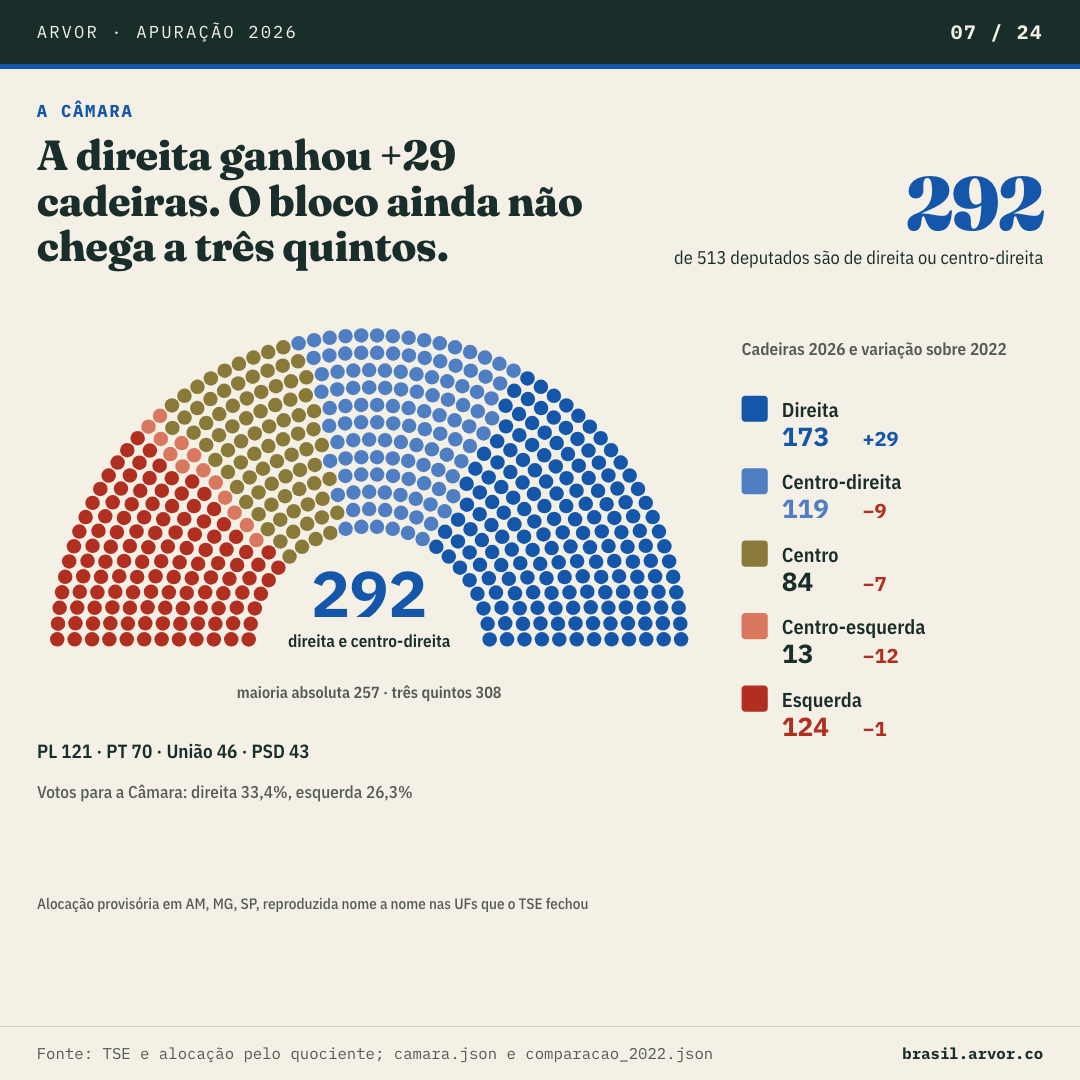
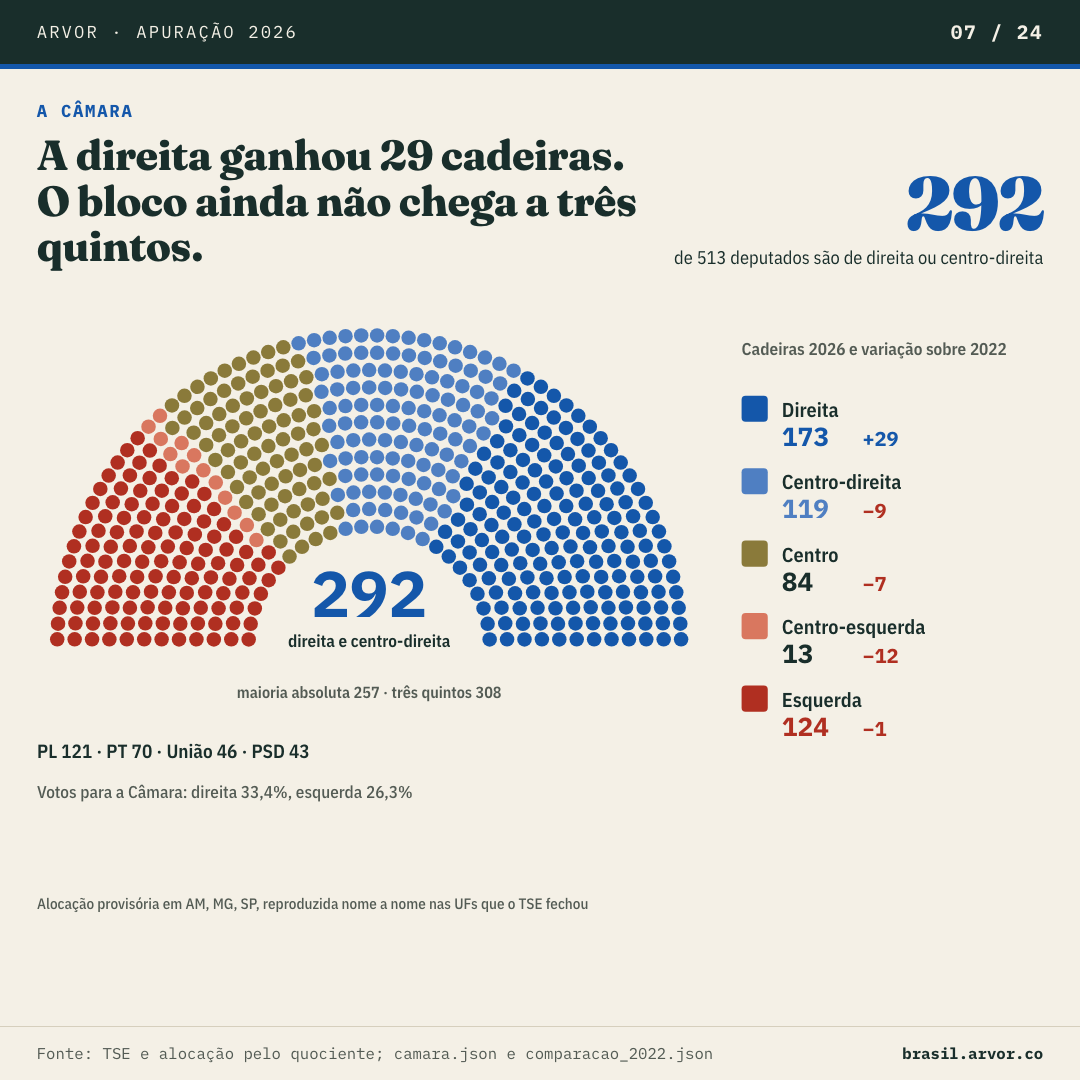
apuracao thread: write the Chamber gain as a count, not a signed delta

Changed region(s): [[0.0306, 0.1222, 0.6111, 0.275]]

diff --git a/docs/apuracao_1o_turno_2026_thread.html b/docs/apuracao_1o_turno_2026_thread.html
@@ -331,17 +331,17 @@ Há mais eleitor parado no exterior do que margem a disputar: 574.768 inscritos 
 </section>
 <section class="post" id="p07">
   <div class="post-label">Post 07/24 · <b>A Câmara</b></div>
-  <article class="card" style="--accent:#1457aa" aria-label="Card 7 de 24: A direita ganhou +29 cadeiras. O bloco ainda não chega a três quintos.">
+  <article class="card" style="--accent:#1457aa" aria-label="Card 7 de 24: A direita ganhou 29 cadeiras. O bloco ainda não chega a três quintos.">
     <header class="c-head"><span class="c-brand">Arvor · Apuração 2026</span><span class="c-pno">07 / 24</span></header>
     <div class="c-top">
       <div class="c-tag">A Câmara</div>
-      <h2>A direita ganhou +29 cadeiras. O bloco ainda não chega a três quintos.</h2>
+      <h2>A direita ganhou 29 cadeiras. O bloco ainda não chega a três quintos.</h2>
       <div class="c-metric"><b style="font-size:7.0cqw">292</b><span>de 513 deputados são de direita ou centro-direita</span></div>
     </div>
     <div class="c-viz" tabindex="0" role="region" aria-label="Gráfico do card 7"><svg viewBox="0 0 1000 600" role="img" aria-label="Câmara dos Deputados eleita, por campo" xmlns="http://www.w3.org/2000/svg"><title>Câmara dos Deputados eleita, por campo</title><circle cx="20.1" cy="322.1" r="7.2" fill="#b02f21"/><circle cx="37.4" cy="322.1" r="7.2" fill="#b02f21"/><circle cx="54.7" cy="322.1" r="7.2" fill="#b02f21"/><circle cx="71.9" cy="322.0" r="7.2" fill="#b02f21"/><circle cx="89.2" cy="322.1" r="7.2" fill="#b02f21"/><circle cx="106.5" cy="322.0" r="7.2" fill="#b02f21"/><circle cx="123.8" cy="322.1" r="7.2" fill="#b02f21"/><circle cx="141.1" cy="322.2" r="7.2" fill="#b02f21"/><circle cx="158.4" cy="322.1" r="7.2" fill="#b02f21"/><circle cx="175.7" cy="322.2" r="7.2" fill="#b02f21"/><circle cx="193.0" cy="322.0" r="7.2" fill="#b02f21"/><circle cx="210.3" cy="322.2" r="7.2" fill="#b02f21"/><circle cx="20.9" cy="306.5" r="7.2" fill="#b02f21"/><circle cx="38.2" cy="306.2" r="7.2" fill="#b02f21"/><circle cx="55.6" cy="306.4" r="7.2" fill="#b02f21"/><circle cx="72.9" cy="306.2" r="7.2" fill="#b02f21"/><circle cx="90.3" cy="306.4" r="7.2" fill="#b02f21"/><circle cx="107.6" cy="306.1" r="7.2" fill="#b02f21"/><circle cx="125.0" cy="306.3" r="7.2" fill="#b02f21"/><circle cx="142.4" cy="306.6" r="7.2" fill="#b02f21"/><circle cx="22.5" cy="290.8" r="7.2" fill="#b02f21"/><circle cx="40.0" cy="290.5" r="7.2" fill="#b02f21"/><circle cx="159.8" cy="306.3" r="7.2" fill="#b02f21"/><circle cx="57.3" cy="290.8" r="7.2" fill="#b02f21"/><circle cx="177.2" cy="306.6" r="7.2" fill="#b02f21"/><circle cx="74.9" cy="290.4" r="7.2" fill="#b02f21"/><circle cx="92.3" cy="290.8" r="7.2" fill="#b02f21"/><circle cx="194.8" cy="306.2" r="7.2" fill="#b02f21"/><circle cx="24.9" cy="275.3" r="7.2" fill="#b02f21"/><circle cx="109.9" cy="290.3" r="7.2" fill="#b02f21"/><circle cx="42.5" cy="274.8" r="7.2" fill="#b02f21"/><circle cx="127.4" cy="290.7" r="7.2" fill="#b02f21"/><circle cx="212.3" cy="306.6" r="7.2" fill="#b02f21"/><circle cx="60.0" cy="275.3" r="7.2" fill="#b02f21"/><circle cx="144.9" cy="291.2" r="7.2" fill="#b02f21"/><circle cx="77.8" cy="274.8" r="7.2" fill="#b02f21"/><circle cx="28.0" cy="259.9" r="7.2" fill="#b02f21"/><circle cx="95.4" cy="275.3" r="7.2" fill="#b02f21"/><circle cx="162.7" cy="290.7" r="7.2" fill="#b02f21"/><circle cx="45.9" cy="259.4" r="7.2" fill="#b02f21"/><circle cx="113.3" cy="274.7" r="7.2" fill="#b02f21"/><circle cx="180.4" cy="291.3" r="7.2" fill="#b02f21"/><circle cx="63.6" cy="260.0" r="7.2" fill="#b02f21"/><circle cx="131.0" cy="275.3" r="7.2" fill="#b02f21"/><circle cx="81.7" cy="259.3" r="7.2" fill="#b02f21"/><circle cx="32.0" cy="244.7" r="7.2" fill="#b02f21"/><circle cx="148.8" cy="276.0" r="7.2" fill="#b02f21"/><circle cx="198.5" cy="290.6" r="7.2" fill="#b02f21"/><circle cx="99.5" cy="260.1" r="7.2" fill="#b02f21"/><circle cx="50.2" cy="244.1" r="7.2" fill="#b02f21"/><circle cx="68.0" cy="244.9" r="7.2" fill="#b02f21"/><circle cx="117.8" cy="259.4" r="7.2" fill="#b02f21"/><circle cx="167.1" cy="275.4" r="7.2" fill="#b02f21"/><circle cx="216.4" cy="291.4" r="7.2" fill="#b02f21"/><circle cx="36.7" cy="229.7" r="7.2" fill="#b02f21"/><circle cx="86.5" cy="244.2" r="7.2" fill="#b02f21"/><circle cx="135.8" cy="260.2" r="7.2" fill="#b02f21"/><circle cx="55.2" cy="229.1" r="7.2" fill="#b02f21"/><circle cx="185.1" cy="276.3" r="7.2" fill="#b02f21"/><circle cx="104.5" cy="245.1" r="7.2" fill="#b02f21"/><circle cx="73.3" cy="230.1" r="7.2" fill="#b02f21"/><circle cx="153.8" cy="261.3" r="7.2" fill="#b02f21"/><circle cx="42.1" cy="215.0" r="7.2" fill="#b02f21"/><circle cx="123.4" cy="244.4" r="7.2" fill="#b02f21"/><circle cx="92.2" cy="229.4" r="7.2" fill="#b02f21"/><circle cx="61.1" cy="214.3" r="7.2" fill="#b02f21"/><circle cx="204.0" cy="275.6" r="7.2" fill="#b02f21"/><circle cx="172.8" cy="260.6" r="7.2" fill="#b02f21"/><circle cx="141.7" cy="245.6" r="7.2" fill="#b02f21"/><circle cx="110.6" cy="230.6" r="7.2" fill="#b02f21"/><circle cx="79.4" cy="215.6" r="7.2" fill="#b02f21"/><circle cx="48.3" cy="200.6" r="7.2" fill="#b02f21"/><circle cx="160.1" cy="247.0" r="7.2" fill="#b02f21"/><circle cx="191.2" cy="261.9" r="7.2" fill="#b02f21"/><circle cx="222.4" cy="276.9" r="7.2" fill="#b02f21"/><circle cx="67.8" cy="199.9" r="7.2" fill="#b02f21"/><circle cx="98.9" cy="214.9" r="7.2" fill="#b02f21"/><circle cx="130.0" cy="229.9" r="7.2" fill="#b02f21"/><circle cx="55.2" cy="186.5" r="7.2" fill="#b02f21"/><circle cx="86.4" cy="201.5" r="7.2" fill="#b02f21"/><circle cx="117.5" cy="216.4" r="7.2" fill="#b02f21"/><circle cx="148.7" cy="231.4" r="7.2" fill="#b02f21"/><circle cx="179.9" cy="246.4" r="7.2" fill="#b02f21"/><circle cx="75.2" cy="185.9" r="7.2" fill="#b02f21"/><circle cx="211.1" cy="261.4" r="7.2" fill="#b02f21"/><circle cx="106.4" cy="200.9" r="7.2" fill="#b02f21"/><circle cx="62.9" cy="172.7" r="7.2" fill="#b02f21"/><circle cx="137.7" cy="215.9" r="7.2" fill="#b02f21"/><circle cx="167.6" cy="233.2" r="7.2" fill="#b02f21"/><circle cx="94.1" cy="187.8" r="7.2" fill="#b02f21"/><circle cx="125.4" cy="202.8" r="7.2" fill="#b02f21"/><circle cx="198.8" cy="248.3" r="7.2" fill="#b02f21"/><circle cx="83.4" cy="172.3" r="7.2" fill="#b02f21"/><circle cx="156.8" cy="217.8" r="7.2" fill="#b02f21"/><circle cx="71.2" cy="159.4" r="7.2" fill="#b02f21"/><circle cx="114.8" cy="187.4" r="7.2" fill="#b02f21"/><circle cx="230.2" cy="263.3" r="7.2" fill="#b02f21"/><circle cx="102.6" cy="174.5" r="7.2" fill="#b02f21"/><circle cx="188.3" cy="232.9" r="7.2" fill="#b02f21"/><circle cx="146.3" cy="202.5" r="7.2" fill="#b02f21"/><circle cx="176.1" cy="220.1" r="7.2" fill="#b02f21"/><circle cx="134.2" cy="189.7" r="7.2" fill="#b02f21"/><circle cx="92.3" cy="159.2" r="7.2" fill="#b02f21"/><circle cx="80.1" cy="146.5" r="7.2" fill="#b02f21"/><circle cx="219.9" cy="248.0" r="7.2" fill="#b02f21"/><circle cx="124.0" cy="174.4" r="7.2" fill="#b02f21"/><circle cx="165.9" cy="204.9" r="7.2" fill="#b02f21"/><circle cx="111.9" cy="161.8" r="7.2" fill="#b02f21"/><circle cx="207.8" cy="235.4" r="7.2" fill="#b02f21"/><circle cx="101.8" cy="146.6" r="7.2" fill="#b02f21"/><circle cx="155.9" cy="189.7" r="7.2" fill="#b02f21"/><circle cx="89.7" cy="134.1" r="7.2" fill="#b02f21"/><circle cx="143.8" cy="177.2" r="7.2" fill="#b02f21"/><circle cx="197.8" cy="220.2" r="7.2" fill="#b02f21"/><circle cx="185.7" cy="207.8" r="7.2" fill="#b02f21"/><circle cx="133.9" cy="162.0" r="7.2" fill="#b02f21"/><circle cx="121.8" cy="149.6" r="7.2" fill="#b02f21"/><circle cx="239.8" cy="250.9" r="7.2" fill="#b02f21"/><circle cx="175.9" cy="192.7" r="7.2" fill="#b02f21"/><circle cx="112.1" cy="134.5" r="7.2" fill="#b02f21"/><circle cx="100.0" cy="122.2" r="7.2" fill="#b02f21"/><circle cx="166.3" cy="177.6" r="7.2" fill="#b02f21"/><circle cx="154.2" cy="165.3" r="7.2" fill="#b02f21"/><circle cx="230.2" cy="235.8" r="7.2" fill="#b02f21"/><circle cx="218.0" cy="223.5" r="7.2" fill="#d9775f"/><circle cx="144.6" cy="150.3" r="7.2" fill="#d9775f"/><circle cx="132.5" cy="138.0" r="7.2" fill="#d9775f"/><circle cx="208.5" cy="208.5" r="7.2" fill="#d9775f"/><circle cx="196.3" cy="196.3" r="7.2" fill="#d9775f"/><circle cx="123.0" cy="123.0" r="7.2" fill="#d9775f"/><circle cx="110.8" cy="110.8" r="7.2" fill="#d9775f"/><circle cx="186.9" cy="181.3" r="7.2" fill="#d9775f"/><circle cx="165.3" cy="154.2" r="7.2" fill="#d9775f"/><circle cx="177.6" cy="166.3" r="7.2" fill="#d9775f"/><circle cx="143.7" cy="127.1" r="7.2" fill="#d9775f"/><circle cx="156.1" cy="139.2" r="7.2" fill="#d9775f"/><circle cx="122.2" cy="100.0" r="7.2" fill="#d9775f"/><circle cx="134.5" cy="112.1" r="7.2" fill="#8a7a3a"/><circle cx="250.9" cy="239.8" r="7.2" fill="#8a7a3a"/><circle cx="229.3" cy="212.7" r="7.2" fill="#8a7a3a"/><circle cx="207.8" cy="185.7" r="7.2" fill="#8a7a3a"/><circle cx="241.8" cy="224.8" r="7.2" fill="#8a7a3a"/><circle cx="220.2" cy="197.8" r="7.2" fill="#8a7a3a"/><circle cx="198.7" cy="170.8" r="7.2" fill="#8a7a3a"/><circle cx="177.2" cy="143.8" r="7.2" fill="#8a7a3a"/><circle cx="155.6" cy="116.8" r="7.2" fill="#8a7a3a"/><circle cx="134.1" cy="89.7" r="7.2" fill="#8a7a3a"/><circle cx="189.7" cy="155.9" r="7.2" fill="#8a7a3a"/><circle cx="168.1" cy="128.9" r="7.2" fill="#8a7a3a"/><circle cx="146.6" cy="101.8" r="7.2" fill="#8a7a3a"/><circle cx="146.5" cy="80.1" r="7.2" fill="#8a7a3a"/><circle cx="168.1" cy="107.2" r="7.2" fill="#8a7a3a"/><circle cx="159.2" cy="92.3" r="7.2" fill="#8a7a3a"/><circle cx="189.7" cy="134.2" r="7.2" fill="#8a7a3a"/><circle cx="220.1" cy="176.1" r="7.2" fill="#8a7a3a"/><circle cx="180.8" cy="119.3" r="7.2" fill="#8a7a3a"/><circle cx="211.3" cy="161.2" r="7.2" fill="#8a7a3a"/><circle cx="241.7" cy="203.2" r="7.2" fill="#8a7a3a"/><circle cx="202.5" cy="146.3" r="7.2" fill="#8a7a3a"/><circle cx="232.9" cy="188.3" r="7.2" fill="#8a7a3a"/><circle cx="263.3" cy="230.2" r="7.2" fill="#8a7a3a"/><circle cx="159.4" cy="71.2" r="7.2" fill="#8a7a3a"/><circle cx="254.6" cy="215.3" r="7.2" fill="#8a7a3a"/><circle cx="181.1" cy="98.3" r="7.2" fill="#8a7a3a"/><circle cx="172.3" cy="83.4" r="7.2" fill="#8a7a3a"/><circle cx="202.8" cy="125.4" r="7.2" fill="#8a7a3a"/><circle cx="194.1" cy="110.5" r="7.2" fill="#8a7a3a"/><circle cx="233.2" cy="167.6" r="7.2" fill="#8a7a3a"/><circle cx="224.5" cy="152.6" r="7.2" fill="#8a7a3a"/><circle cx="215.9" cy="137.7" r="7.2" fill="#8a7a3a"/><circle cx="172.7" cy="62.9" r="7.2" fill="#8a7a3a"/><circle cx="185.9" cy="75.2" r="7.2" fill="#8a7a3a"/><circle cx="194.5" cy="90.1" r="7.2" fill="#8a7a3a"/><circle cx="246.4" cy="179.9" r="7.2" fill="#8a7a3a"/><circle cx="255.0" cy="194.9" r="7.2" fill="#8a7a3a"/><circle cx="207.9" cy="102.5" r="7.2" fill="#8a7a3a"/><circle cx="216.4" cy="117.5" r="7.2" fill="#8a7a3a"/><circle cx="186.5" cy="55.2" r="7.2" fill="#8a7a3a"/><circle cx="268.4" cy="207.3" r="7.2" fill="#8a7a3a"/><circle cx="229.9" cy="130.0" r="7.2" fill="#8a7a3a"/><circle cx="199.9" cy="67.8" r="7.2" fill="#8a7a3a"/><circle cx="238.4" cy="145.1" r="7.2" fill="#8a7a3a"/><circle cx="276.9" cy="222.4" r="7.2" fill="#8a7a3a"/><circle cx="208.5" cy="82.8" r="7.2" fill="#8a7a3a"/><circle cx="247.0" cy="160.1" r="7.2" fill="#8a7a3a"/><circle cx="222.1" cy="95.5" r="7.2" fill="#8a7a3a"/><circle cx="200.6" cy="48.3" r="7.2" fill="#8a7a3a"/><circle cx="230.6" cy="110.6" r="7.2" fill="#8a7a3a"/><circle cx="260.6" cy="172.8" r="7.2" fill="#8a7a3a"/><circle cx="214.3" cy="61.1" r="7.2" fill="#8a7a3a"/><circle cx="269.1" cy="188.0" r="7.2" fill="#8a7a3a"/><circle cx="222.8" cy="76.3" r="7.2" fill="#8a7a3a"/><circle cx="244.4" cy="123.4" r="7.2" fill="#8a7a3a"/><circle cx="252.9" cy="138.6" r="7.2" fill="#8a7a3a"/><circle cx="215.0" cy="42.1" r="7.2" fill="#8a7a3a"/><circle cx="261.3" cy="153.8" r="7.2" fill="#8a7a3a"/><circle cx="236.7" cy="89.3" r="7.2" fill="#8a7a3a"/><circle cx="245.1" cy="104.5" r="7.2" fill="#8a7a3a"/><circle cx="229.1" cy="55.2" r="7.2" fill="#8a7a3a"/><circle cx="283.0" cy="201.0" r="7.2" fill="#8a7a3a"/><circle cx="237.4" cy="70.6" r="7.2" fill="#8a7a3a"/><circle cx="229.7" cy="36.7" r="7.2" fill="#8a7a3a"/><circle cx="291.4" cy="216.4" r="7.2" fill="#8a7a3a"/><circle cx="275.4" cy="167.1" r="7.2" fill="#8a7a3a"/><circle cx="259.4" cy="117.8" r="7.2" fill="#8a7a3a"/><circle cx="251.7" cy="84.0" r="7.2" fill="#8a7a3a"/><circle cx="267.7" cy="133.3" r="7.2" fill="#8a7a3a"/><circle cx="283.7" cy="182.5" r="7.2" fill="#8a7a3a"/><circle cx="244.1" cy="50.2" r="7.2" fill="#8a7a3a"/><circle cx="260.1" cy="99.5" r="7.2" fill="#8a7a3a"/><circle cx="276.0" cy="148.8" r="7.2" fill="#8a7a3a"/><circle cx="252.4" cy="65.7" r="7.2" fill="#8a7a3a"/><circle cx="244.7" cy="32.0" r="7.2" fill="#8a7a3a"/><circle cx="274.7" cy="113.3" r="7.2" fill="#8a7a3a"/><circle cx="267.0" cy="79.6" r="7.2" fill="#8a7a3a"/><circle cx="259.4" cy="45.9" r="7.2" fill="#8a7a3a"/><circle cx="298.3" cy="196.4" r="7.2" fill="#8a7a3a"/><circle cx="290.7" cy="162.7" r="7.2" fill="#8a7a3a"/><circle cx="283.0" cy="129.1" r="7.2" fill="#8a7a3a"/><circle cx="275.3" cy="95.4" r="7.2" fill="#8a7a3a"/><circle cx="267.6" cy="61.7" r="7.2" fill="#8a7a3a"/><circle cx="259.9" cy="28.0" r="7.2" fill="#4f7fc2"/><circle cx="291.2" cy="144.9" r="7.2" fill="#4f7fc2"/><circle cx="298.9" cy="178.6" r="7.2" fill="#4f7fc2"/><circle cx="306.6" cy="212.3" r="7.2" fill="#4f7fc2"/><circle cx="274.8" cy="42.5" r="7.2" fill="#4f7fc2"/><circle cx="282.6" cy="76.2" r="7.2" fill="#4f7fc2"/><circle cx="290.3" cy="109.9" r="7.2" fill="#4f7fc2"/><circle cx="275.3" cy="24.9" r="7.2" fill="#4f7fc2"/><circle cx="283.0" cy="58.6" r="7.2" fill="#4f7fc2"/><circle cx="290.8" cy="92.3" r="7.2" fill="#4f7fc2"/><circle cx="298.5" cy="126.1" r="7.2" fill="#4f7fc2"/><circle cx="306.3" cy="159.8" r="7.2" fill="#4f7fc2"/><circle cx="290.5" cy="40.0" r="7.2" fill="#4f7fc2"/><circle cx="290.8" cy="22.5" r="7.2" fill="#4f7fc2"/><circle cx="306.6" cy="142.4" r="7.2" fill="#4f7fc2"/><circle cx="298.3" cy="73.8" r="7.2" fill="#4f7fc2"/><circle cx="314.1" cy="193.7" r="7.2" fill="#4f7fc2"/><circle cx="298.6" cy="56.3" r="7.2" fill="#4f7fc2"/><circle cx="306.1" cy="107.6" r="7.2" fill="#4f7fc2"/><circle cx="314.4" cy="176.2" r="7.2" fill="#4f7fc2"/><circle cx="306.4" cy="90.3" r="7.2" fill="#4f7fc2"/><circle cx="306.2" cy="38.2" r="7.2" fill="#4f7fc2"/><circle cx="314.2" cy="124.2" r="7.2" fill="#4f7fc2"/><circle cx="306.5" cy="20.9" r="7.2" fill="#4f7fc2"/><circle cx="322.2" cy="210.3" r="7.2" fill="#4f7fc2"/><circle cx="314.1" cy="72.3" r="7.2" fill="#4f7fc2"/><circle cx="314.3" cy="55.0" r="7.2" fill="#4f7fc2"/><circle cx="322.1" cy="158.4" r="7.2" fill="#4f7fc2"/><circle cx="322.2" cy="141.1" r="7.2" fill="#4f7fc2"/><circle cx="322.0" cy="106.5" r="7.2" fill="#4f7fc2"/><circle cx="322.1" cy="89.2" r="7.2" fill="#4f7fc2"/><circle cx="322.1" cy="37.4" r="7.2" fill="#4f7fc2"/><circle cx="322.1" cy="20.1" r="7.2" fill="#4f7fc2"/><circle cx="330.0" cy="192.7" r="7.2" fill="#4f7fc2"/><circle cx="330.0" cy="175.5" r="7.2" fill="#4f7fc2"/><circle cx="330.0" cy="123.6" r="7.2" fill="#4f7fc2"/><circle cx="330.0" cy="71.8" r="7.2" fill="#4f7fc2"/><circle cx="330.0" cy="54.5" r="7.2" fill="#4f7fc2"/><circle cx="337.9" cy="20.1" r="7.2" fill="#4f7fc2"/><circle cx="337.9" cy="37.4" r="7.2" fill="#4f7fc2"/><circle cx="337.9" cy="89.2" r="7.2" fill="#4f7fc2"/><circle cx="338.0" cy="106.5" r="7.2" fill="#4f7fc2"/><circle cx="337.8" cy="141.1" r="7.2" fill="#4f7fc2"/><circle cx="337.9" cy="158.4" r="7.2" fill="#4f7fc2"/><circle cx="345.7" cy="55.0" r="7.2" fill="#4f7fc2"/><circle cx="345.9" cy="72.3" r="7.2" fill="#4f7fc2"/><circle cx="337.8" cy="210.3" r="7.2" fill="#4f7fc2"/><circle cx="353.5" cy="20.9" r="7.2" fill="#4f7fc2"/><circle cx="345.8" cy="124.2" r="7.2" fill="#4f7fc2"/><circle cx="353.8" cy="38.2" r="7.2" fill="#4f7fc2"/><circle cx="353.6" cy="90.3" r="7.2" fill="#4f7fc2"/><circle cx="345.6" cy="176.2" r="7.2" fill="#4f7fc2"/><circle cx="353.9" cy="107.6" r="7.2" fill="#4f7fc2"/><circle cx="361.4" cy="56.3" r="7.2" fill="#4f7fc2"/><circle cx="345.9" cy="193.7" r="7.2" fill="#4f7fc2"/><circle cx="361.7" cy="73.8" r="7.2" fill="#4f7fc2"/><circle cx="353.4" cy="142.4" r="7.2" fill="#4f7fc2"/><circle cx="369.2" cy="22.5" r="7.2" fill="#4f7fc2"/><circle cx="369.5" cy="40.0" r="7.2" fill="#4f7fc2"/><circle cx="353.7" cy="159.8" r="7.2" fill="#4f7fc2"/><circle cx="361.5" cy="126.1" r="7.2" fill="#4f7fc2"/><circle cx="369.2" cy="92.3" r="7.2" fill="#4f7fc2"/><circle cx="377.0" cy="58.6" r="7.2" fill="#4f7fc2"/><circle cx="384.7" cy="24.9" r="7.2" fill="#4f7fc2"/><circle cx="369.7" cy="109.9" r="7.2" fill="#4f7fc2"/><circle cx="377.4" cy="76.2" r="7.2" fill="#4f7fc2"/><circle cx="385.2" cy="42.5" r="7.2" fill="#4f7fc2"/><circle cx="353.4" cy="212.3" r="7.2" fill="#4f7fc2"/><circle cx="361.1" cy="178.6" r="7.2" fill="#4f7fc2"/><circle cx="368.8" cy="144.9" r="7.2" fill="#4f7fc2"/><circle cx="400.1" cy="28.0" r="7.2" fill="#4f7fc2"/><circle cx="392.4" cy="61.7" r="7.2" fill="#4f7fc2"/><circle cx="384.7" cy="95.4" r="7.2" fill="#4f7fc2"/><circle cx="377.0" cy="129.1" r="7.2" fill="#4f7fc2"/><circle cx="369.3" cy="162.7" r="7.2" fill="#4f7fc2"/><circle cx="361.7" cy="196.4" r="7.2" fill="#4f7fc2"/><circle cx="400.6" cy="45.9" r="7.2" fill="#4f7fc2"/><circle cx="393.0" cy="79.6" r="7.2" fill="#4f7fc2"/><circle cx="385.3" cy="113.3" r="7.2" fill="#4f7fc2"/><circle cx="415.3" cy="32.0" r="7.2" fill="#4f7fc2"/><circle cx="407.6" cy="65.7" r="7.2" fill="#4f7fc2"/><circle cx="384.0" cy="148.8" r="7.2" fill="#4f7fc2"/><circle cx="399.9" cy="99.5" r="7.2" fill="#4f7fc2"/><circle cx="415.9" cy="50.2" r="7.2" fill="#4f7fc2"/><circle cx="376.3" cy="182.5" r="7.2" fill="#4f7fc2"/><circle cx="392.3" cy="133.3" r="7.2" fill="#4f7fc2"/><circle cx="408.3" cy="84.0" r="7.2" fill="#4f7fc2"/><circle cx="400.6" cy="117.8" r="7.2" fill="#4f7fc2"/><circle cx="384.6" cy="167.1" r="7.2" fill="#4f7fc2"/><circle cx="368.6" cy="216.4" r="7.2" fill="#4f7fc2"/><circle cx="430.3" cy="36.7" r="7.2" fill="#4f7fc2"/><circle cx="422.6" cy="70.6" r="7.2" fill="#4f7fc2"/><circle cx="377.0" cy="201.0" r="7.2" fill="#4f7fc2"/><circle cx="430.9" cy="55.2" r="7.2" fill="#4f7fc2"/><circle cx="414.9" cy="104.5" r="7.2" fill="#4f7fc2"/><circle cx="423.3" cy="89.3" r="7.2" fill="#4f7fc2"/><circle cx="398.7" cy="153.8" r="7.2" fill="#4f7fc2"/><circle cx="445.0" cy="42.1" r="7.2" fill="#4f7fc2"/><circle cx="407.1" cy="138.6" r="7.2" fill="#4f7fc2"/><circle cx="415.6" cy="123.4" r="7.2" fill="#4f7fc2"/><circle cx="437.2" cy="76.3" r="7.2" fill="#4f7fc2"/><circle cx="390.9" cy="188.0" r="7.2" fill="#4f7fc2"/><circle cx="445.7" cy="61.1" r="7.2" fill="#4f7fc2"/><circle cx="399.4" cy="172.8" r="7.2" fill="#4f7fc2"/><circle cx="429.4" cy="110.6" r="7.2" fill="#4f7fc2"/><circle cx="459.4" cy="48.3" r="7.2" fill="#4f7fc2"/><circle cx="437.9" cy="95.5" r="7.2" fill="#4f7fc2"/><circle cx="413.0" cy="160.1" r="7.2" fill="#4f7fc2"/><circle cx="451.5" cy="82.8" r="7.2" fill="#4f7fc2"/><circle cx="383.1" cy="222.4" r="7.2" fill="#4f7fc2"/><circle cx="421.6" cy="145.1" r="7.2" fill="#4f7fc2"/><circle cx="460.1" cy="67.8" r="7.2" fill="#4f7fc2"/><circle cx="430.1" cy="130.0" r="7.2" fill="#4f7fc2"/><circle cx="391.6" cy="207.3" r="7.2" fill="#4f7fc2"/><circle cx="473.5" cy="55.2" r="7.2" fill="#4f7fc2"/><circle cx="443.6" cy="117.5" r="7.2" fill="#4f7fc2"/><circle cx="452.1" cy="102.5" r="7.2" fill="#4f7fc2"/><circle cx="405.0" cy="194.9" r="7.2" fill="#4f7fc2"/><circle cx="413.6" cy="179.9" r="7.2" fill="#4f7fc2"/><circle cx="465.5" cy="90.1" r="7.2" fill="#1457aa"/><circle cx="474.1" cy="75.2" r="7.2" fill="#1457aa"/><circle cx="487.3" cy="62.9" r="7.2" fill="#1457aa"/><circle cx="444.1" cy="137.7" r="7.2" fill="#1457aa"/><circle cx="435.5" cy="152.6" r="7.2" fill="#1457aa"/><circle cx="426.8" cy="167.6" r="7.2" fill="#1457aa"/><circle cx="465.9" cy="110.5" r="7.2" fill="#1457aa"/><circle cx="457.2" cy="125.4" r="7.2" fill="#1457aa"/><circle cx="487.7" cy="83.4" r="7.2" fill="#1457aa"/><circle cx="478.9" cy="98.3" r="7.2" fill="#1457aa"/><circle cx="405.4" cy="215.3" r="7.2" fill="#1457aa"/><circle cx="500.6" cy="71.2" r="7.2" fill="#1457aa"/><circle cx="396.7" cy="230.2" r="7.2" fill="#1457aa"/><circle cx="427.1" cy="188.3" r="7.2" fill="#1457aa"/><circle cx="457.5" cy="146.3" r="7.2" fill="#1457aa"/><circle cx="418.3" cy="203.2" r="7.2" fill="#1457aa"/><circle cx="448.7" cy="161.2" r="7.2" fill="#1457aa"/><circle cx="479.2" cy="119.3" r="7.2" fill="#1457aa"/><circle cx="439.9" cy="176.1" r="7.2" fill="#1457aa"/><circle cx="470.3" cy="134.2" r="7.2" fill="#1457aa"/><circle cx="500.8" cy="92.3" r="7.2" fill="#1457aa"/><circle cx="491.9" cy="107.2" r="7.2" fill="#1457aa"/><circle cx="513.5" cy="80.1" r="7.2" fill="#1457aa"/><circle cx="513.4" cy="101.8" r="7.2" fill="#1457aa"/><circle cx="491.9" cy="128.9" r="7.2" fill="#1457aa"/><circle cx="470.3" cy="155.9" r="7.2" fill="#1457aa"/><circle cx="525.9" cy="89.7" r="7.2" fill="#1457aa"/><circle cx="504.4" cy="116.8" r="7.2" fill="#1457aa"/><circle cx="482.8" cy="143.8" r="7.2" fill="#1457aa"/><circle cx="461.3" cy="170.8" r="7.2" fill="#1457aa"/><circle cx="439.8" cy="197.8" r="7.2" fill="#1457aa"/><circle cx="418.2" cy="224.8" r="7.2" fill="#1457aa"/><circle cx="452.2" cy="185.7" r="7.2" fill="#1457aa"/><circle cx="430.7" cy="212.7" r="7.2" fill="#1457aa"/><circle cx="409.1" cy="239.8" r="7.2" fill="#1457aa"/><circle cx="525.5" cy="112.1" r="7.2" fill="#1457aa"/><circle cx="537.8" cy="100.0" r="7.2" fill="#1457aa"/><circle cx="503.9" cy="139.2" r="7.2" fill="#1457aa"/><circle cx="516.3" cy="127.1" r="7.2" fill="#1457aa"/><circle cx="482.4" cy="166.3" r="7.2" fill="#1457aa"/><circle cx="494.7" cy="154.2" r="7.2" fill="#1457aa"/><circle cx="473.1" cy="181.3" r="7.2" fill="#1457aa"/><circle cx="451.5" cy="208.5" r="7.2" fill="#1457aa"/><circle cx="463.7" cy="196.3" r="7.2" fill="#1457aa"/><circle cx="537.0" cy="123.0" r="7.2" fill="#1457aa"/><circle cx="549.2" cy="110.8" r="7.2" fill="#1457aa"/><circle cx="527.5" cy="138.0" r="7.2" fill="#1457aa"/><circle cx="515.4" cy="150.3" r="7.2" fill="#1457aa"/><circle cx="442.0" cy="223.5" r="7.2" fill="#1457aa"/><circle cx="429.8" cy="235.8" r="7.2" fill="#1457aa"/><circle cx="505.8" cy="165.3" r="7.2" fill="#1457aa"/><circle cx="493.7" cy="177.6" r="7.2" fill="#1457aa"/><circle cx="560.0" cy="122.2" r="7.2" fill="#1457aa"/><circle cx="547.9" cy="134.5" r="7.2" fill="#1457aa"/><circle cx="484.1" cy="192.7" r="7.2" fill="#1457aa"/><circle cx="420.2" cy="250.9" r="7.2" fill="#1457aa"/><circle cx="538.2" cy="149.6" r="7.2" fill="#1457aa"/><circle cx="526.1" cy="162.0" r="7.2" fill="#1457aa"/><circle cx="474.3" cy="207.8" r="7.2" fill="#1457aa"/><circle cx="462.2" cy="220.2" r="7.2" fill="#1457aa"/><circle cx="516.2" cy="177.2" r="7.2" fill="#1457aa"/><circle cx="570.3" cy="134.1" r="7.2" fill="#1457aa"/><circle cx="504.1" cy="189.7" r="7.2" fill="#1457aa"/><circle cx="558.2" cy="146.6" r="7.2" fill="#1457aa"/><circle cx="452.2" cy="235.4" r="7.2" fill="#1457aa"/><circle cx="548.1" cy="161.8" r="7.2" fill="#1457aa"/><circle cx="494.1" cy="204.9" r="7.2" fill="#1457aa"/><circle cx="536.0" cy="174.4" r="7.2" fill="#1457aa"/><circle cx="440.1" cy="248.0" r="7.2" fill="#1457aa"/><circle cx="579.9" cy="146.5" r="7.2" fill="#1457aa"/><circle cx="567.7" cy="159.2" r="7.2" fill="#1457aa"/><circle cx="525.8" cy="189.7" r="7.2" fill="#1457aa"/><circle cx="483.9" cy="220.1" r="7.2" fill="#1457aa"/><circle cx="513.7" cy="202.5" r="7.2" fill="#1457aa"/><circle cx="471.7" cy="232.9" r="7.2" fill="#1457aa"/><circle cx="557.4" cy="174.5" r="7.2" fill="#1457aa"/><circle cx="429.8" cy="263.3" r="7.2" fill="#1457aa"/><circle cx="545.2" cy="187.4" r="7.2" fill="#1457aa"/><circle cx="588.8" cy="159.4" r="7.2" fill="#1457aa"/><circle cx="503.2" cy="217.8" r="7.2" fill="#1457aa"/><circle cx="576.6" cy="172.3" r="7.2" fill="#1457aa"/><circle cx="461.2" cy="248.3" r="7.2" fill="#1457aa"/><circle cx="534.6" cy="202.8" r="7.2" fill="#1457aa"/><circle cx="565.9" cy="187.8" r="7.2" fill="#1457aa"/><circle cx="492.4" cy="233.2" r="7.2" fill="#1457aa"/><circle cx="522.3" cy="215.9" r="7.2" fill="#1457aa"/><circle cx="597.1" cy="172.7" r="7.2" fill="#1457aa"/><circle cx="448.9" cy="261.4" r="7.2" fill="#1457aa"/><circle cx="553.6" cy="200.9" r="7.2" fill="#1457aa"/><circle cx="584.8" cy="185.9" r="7.2" fill="#1457aa"/><circle cx="480.1" cy="246.4" r="7.2" fill="#1457aa"/><circle cx="511.3" cy="231.4" r="7.2" fill="#1457aa"/><circle cx="542.5" cy="216.4" r="7.2" fill="#1457aa"/><circle cx="573.6" cy="201.5" r="7.2" fill="#1457aa"/><circle cx="604.8" cy="186.5" r="7.2" fill="#1457aa"/><circle cx="530.0" cy="229.9" r="7.2" fill="#1457aa"/><circle cx="561.1" cy="214.9" r="7.2" fill="#1457aa"/><circle cx="592.2" cy="199.9" r="7.2" fill="#1457aa"/><circle cx="437.6" cy="276.9" r="7.2" fill="#1457aa"/><circle cx="468.8" cy="261.9" r="7.2" fill="#1457aa"/><circle cx="499.9" cy="247.0" r="7.2" fill="#1457aa"/><circle cx="611.7" cy="200.6" r="7.2" fill="#1457aa"/><circle cx="580.6" cy="215.6" r="7.2" fill="#1457aa"/><circle cx="549.4" cy="230.6" r="7.2" fill="#1457aa"/><circle cx="518.3" cy="245.6" r="7.2" fill="#1457aa"/><circle cx="487.2" cy="260.6" r="7.2" fill="#1457aa"/><circle cx="456.0" cy="275.6" r="7.2" fill="#1457aa"/><circle cx="598.9" cy="214.3" r="7.2" fill="#1457aa"/><circle cx="567.8" cy="229.4" r="7.2" fill="#1457aa"/><circle cx="536.6" cy="244.4" r="7.2" fill="#1457aa"/><circle cx="617.9" cy="215.0" r="7.2" fill="#1457aa"/><circle cx="506.2" cy="261.3" r="7.2" fill="#1457aa"/><circle cx="586.7" cy="230.1" r="7.2" fill="#1457aa"/><circle cx="555.5" cy="245.1" r="7.2" fill="#1457aa"/><circle cx="474.9" cy="276.3" r="7.2" fill="#1457aa"/><circle cx="604.8" cy="229.1" r="7.2" fill="#1457aa"/><circle cx="524.2" cy="260.2" r="7.2" fill="#1457aa"/><circle cx="573.5" cy="244.2" r="7.2" fill="#1457aa"/><circle cx="623.3" cy="229.7" r="7.2" fill="#1457aa"/><circle cx="443.6" cy="291.4" r="7.2" fill="#1457aa"/><circle cx="492.9" cy="275.4" r="7.2" fill="#1457aa"/><circle cx="542.2" cy="259.4" r="7.2" fill="#1457aa"/><circle cx="592.0" cy="244.9" r="7.2" fill="#1457aa"/><circle cx="609.8" cy="244.1" r="7.2" fill="#1457aa"/><circle cx="560.5" cy="260.1" r="7.2" fill="#1457aa"/><circle cx="461.5" cy="290.6" r="7.2" fill="#1457aa"/><circle cx="511.2" cy="276.0" r="7.2" fill="#1457aa"/><circle cx="628.0" cy="244.7" r="7.2" fill="#1457aa"/><circle cx="578.3" cy="259.3" r="7.2" fill="#1457aa"/><circle cx="529.0" cy="275.3" r="7.2" fill="#1457aa"/><circle cx="596.4" cy="260.0" r="7.2" fill="#1457aa"/><circle cx="479.6" cy="291.3" r="7.2" fill="#1457aa"/><circle cx="546.7" cy="274.7" r="7.2" fill="#1457aa"/><circle cx="614.1" cy="259.4" r="7.2" fill="#1457aa"/><circle cx="497.3" cy="290.7" r="7.2" fill="#1457aa"/><circle cx="564.6" cy="275.3" r="7.2" fill="#1457aa"/><circle cx="632.0" cy="259.9" r="7.2" fill="#1457aa"/><circle cx="582.2" cy="274.8" r="7.2" fill="#1457aa"/><circle cx="515.1" cy="291.2" r="7.2" fill="#1457aa"/><circle cx="600.0" cy="275.3" r="7.2" fill="#1457aa"/><circle cx="447.7" cy="306.6" r="7.2" fill="#1457aa"/><circle cx="532.6" cy="290.7" r="7.2" fill="#1457aa"/><circle cx="617.5" cy="274.8" r="7.2" fill="#1457aa"/><circle cx="550.1" cy="290.3" r="7.2" fill="#1457aa"/><circle cx="635.1" cy="275.3" r="7.2" fill="#1457aa"/><circle cx="465.2" cy="306.2" r="7.2" fill="#1457aa"/><circle cx="567.7" cy="290.8" r="7.2" fill="#1457aa"/><circle cx="585.1" cy="290.4" r="7.2" fill="#1457aa"/><circle cx="482.8" cy="306.6" r="7.2" fill="#1457aa"/><circle cx="602.7" cy="290.8" r="7.2" fill="#1457aa"/><circle cx="500.2" cy="306.3" r="7.2" fill="#1457aa"/><circle cx="620.0" cy="290.5" r="7.2" fill="#1457aa"/><circle cx="637.5" cy="290.8" r="7.2" fill="#1457aa"/><circle cx="517.6" cy="306.6" r="7.2" fill="#1457aa"/><circle cx="535.0" cy="306.3" r="7.2" fill="#1457aa"/><circle cx="552.4" cy="306.1" r="7.2" fill="#1457aa"/><circle cx="569.7" cy="306.4" r="7.2" fill="#1457aa"/><circle cx="587.1" cy="306.2" r="7.2" fill="#1457aa"/><circle cx="604.4" cy="306.4" r="7.2" fill="#1457aa"/><circle cx="621.8" cy="306.2" r="7.2" fill="#1457aa"/><circle cx="639.1" cy="306.5" r="7.2" fill="#1457aa"/><circle cx="449.7" cy="322.2" r="7.2" fill="#1457aa"/><circle cx="467.0" cy="322.0" r="7.2" fill="#1457aa"/><circle cx="484.3" cy="322.2" r="7.2" fill="#1457aa"/><circle cx="501.6" cy="322.1" r="7.2" fill="#1457aa"/><circle cx="518.9" cy="322.2" r="7.2" fill="#1457aa"/><circle cx="536.2" cy="322.1" r="7.2" fill="#1457aa"/><circle cx="553.5" cy="322.0" r="7.2" fill="#1457aa"/><circle cx="570.8" cy="322.1" r="7.2" fill="#1457aa"/><circle cx="588.1" cy="322.0" r="7.2" fill="#1457aa"/><circle cx="605.3" cy="322.1" r="7.2" fill="#1457aa"/><circle cx="622.6" cy="322.1" r="7.2" fill="#1457aa"/><circle cx="639.9" cy="322.1" r="7.2" fill="#1457aa"/><text x="330.0" y="300.0" font-size="64" fill="#1457aa" font-family="IBM Plex Mono, monospace" font-weight="800" text-anchor="middle">292</text><text x="330.0" y="330.0" font-size="17" fill="#192e2b" font-family="IBM Plex Sans Condensed, Arial, sans-serif" font-weight="600" text-anchor="middle">direita e centro-direita</text><text x="330.0" y="380.0" font-size="16" fill="#535b54" font-family="IBM Plex Sans Condensed, Arial, sans-serif" font-weight="600" text-anchor="middle">maioria absoluta 257 · três quintos 308</text><text x="700.0" y="40.0" font-size="17" fill="#535b54" font-family="IBM Plex Sans Condensed, Arial, sans-serif" font-weight="600" text-anchor="start">Cadeiras 2026 e variação sobre 2022</text><rect x="700.0" y="80.0" width="26.0" height="26.0" rx="4" fill="#1457aa"/><text x="740.0" y="101.0" font-size="20" fill="#192e2b" font-family="IBM Plex Sans Condensed, Arial, sans-serif" font-weight="600" text-anchor="start">Direita</text><text x="740.0" y="130.0" font-size="26" fill="#1457aa" font-family="IBM Plex Mono, monospace" font-weight="800" text-anchor="start">173</text><text x="820.0" y="130.0" font-size="20" fill="#1457aa" font-family="IBM Plex Mono, monospace" font-weight="700" text-anchor="start">+29</text><rect x="700.0" y="152.0" width="26.0" height="26.0" rx="4" fill="#4f7fc2"/><text x="740.0" y="173.0" font-size="20" fill="#192e2b" font-family="IBM Plex Sans Condensed, Arial, sans-serif" font-weight="600" text-anchor="start">Centro-direita</text><text x="740.0" y="202.0" font-size="26" fill="#4f7fc2" font-family="IBM Plex Mono, monospace" font-weight="800" text-anchor="start">119</text><text x="820.0" y="202.0" font-size="20" fill="#b02f21" font-family="IBM Plex Mono, monospace" font-weight="700" text-anchor="start">−9</text><rect x="700.0" y="224.0" width="26.0" height="26.0" rx="4" fill="#8a7a3a"/><text x="740.0" y="245.0" font-size="20" fill="#192e2b" font-family="IBM Plex Sans Condensed, Arial, sans-serif" font-weight="600" text-anchor="start">Centro</text><text x="740.0" y="274.0" font-size="26" fill="#192e2b" font-family="IBM Plex Mono, monospace" font-weight="800" text-anchor="start">84</text><text x="820.0" y="274.0" font-size="20" fill="#b02f21" font-family="IBM Plex Mono, monospace" font-weight="700" text-anchor="start">−7</text><rect x="700.0" y="296.0" width="26.0" height="26.0" rx="4" fill="#d9775f"/><text x="740.0" y="317.0" font-size="20" fill="#192e2b" font-family="IBM Plex Sans Condensed, Arial, sans-serif" font-weight="600" text-anchor="start">Centro-esquerda</text><text x="740.0" y="346.0" font-size="26" fill="#192e2b" font-family="IBM Plex Mono, monospace" font-weight="800" text-anchor="start">13</text><text x="820.0" y="346.0" font-size="20" fill="#b02f21" font-family="IBM Plex Mono, monospace" font-weight="700" text-anchor="start">−12</text><rect x="700.0" y="368.0" width="26.0" height="26.0" rx="4" fill="#b02f21"/><text x="740.0" y="389.0" font-size="20" fill="#192e2b" font-family="IBM Plex Sans Condensed, Arial, sans-serif" font-weight="600" text-anchor="start">Esquerda</text><text x="740.0" y="418.0" font-size="26" fill="#b02f21" font-family="IBM Plex Mono, monospace" font-weight="800" text-anchor="start">124</text><text x="820.0" y="418.0" font-size="20" fill="#b02f21" font-family="IBM Plex Mono, monospace" font-weight="700" text-anchor="start">−1</text><text x="0.0" y="440.0" font-size="19" fill="#192e2b" font-family="IBM Plex Sans Condensed, Arial, sans-serif" font-weight="600" text-anchor="start">PL 121 · PT 70 · União 46 · PSD 43</text><text x="0.0" y="480.0" font-size="17" fill="#535b54" font-family="IBM Plex Sans Condensed, Arial, sans-serif" font-weight="500" text-anchor="start">Votos para a Câmara: direita 33,4%, esquerda 26,3%</text><text x="0.0" y="590.0" font-size="15" fill="#535b54" font-family="IBM Plex Sans Condensed, Arial, sans-serif" font-weight="500" text-anchor="start">Alocação provisória em AM, MG, SP, reproduzida nome a nome nas UFs que o TSE fechou</text></svg></div>
     <footer class="c-foot"><span>Fonte: TSE e alocação pelo quociente; camara.json e comparacao_2022.json</span><b>brasil.arvor.co</b></footer>
   </article>
-  <div class="copy" data-copy="A Câmara eleita tem 292 deputados de direita e centro-direita, 137 de esquerda e centro-esquerda e 84 de centro, pela classificação de campo da casa. Em 2022 o bloco da direita tinha 272: andou +20. A esquerda e a centro-esquerda andaram −13. Só a direita, sem a centro-direita, ganhou +29 cadeiras e chegou a 173.
+  <div class="copy" data-copy="A Câmara eleita tem 292 deputados de direita e centro-direita, 137 de esquerda e centro-esquerda e 84 de centro, pela classificação de campo da casa. Em 2022 o bloco da direita tinha 272: andou +20. A esquerda e a centro-esquerda andaram −13. Só a direita, sem a centro-direita, ganhou 29 cadeiras e chegou a 173.
 
 O número tem dois marcos. A maioria absoluta é de 257 deputados, e o bloco passa dela com folga. Os três quintos de uma emenda constitucional são 308, e o bloco fica abaixo. O PL terá 121 deputados, a maior bancada; o PT, 70.
 
@@ -353,7 +353,7 @@ Na conversa, a tradução é simples. Quem votou num deputado de direita no domi
 
 Juízo editorial, a favor de Flávio. Um presidente Flávio começa com maioria nas duas Casas sem depender do centro; a fidelidade de partidos como PP, União e Podemos a essa maioria é hipótese, não número. Um presidente Lula governaria contra 292 deputados da direita e da centro-direita. Para o eleitor de centro que quer estabilidade, a composição já eleita é um argumento concreto.
 
-Juízo editorial, achado contrário. O mesmo número serve a Lula: o eleitor que teme concentração de poder pode votar nele como contrapeso. A campanha de Flávio não deve vender a maioria como cheque em branco; deve vendê-la como fim do impasse. Limite: em AM, MG, SP a alocação ainda é provisória, feita pelo quociente, que reproduziu nome a nome as UFs que o TSE já fechou."><span class="cc">2106 caracteres</span>A Câmara eleita tem 292 deputados de direita e centro-direita, 137 de esquerda e centro-esquerda e 84 de centro, pela classificação de campo da casa. Em 2022 o bloco da direita tinha 272: andou +20. A esquerda e a centro-esquerda andaram −13. Só a direita, sem a centro-direita, ganhou +29 cadeiras e chegou a 173.
+Juízo editorial, achado contrário. O mesmo número serve a Lula: o eleitor que teme concentração de poder pode votar nele como contrapeso. A campanha de Flávio não deve vender a maioria como cheque em branco; deve vendê-la como fim do impasse. Limite: em AM, MG, SP a alocação ainda é provisória, feita pelo quociente, que reproduziu nome a nome as UFs que o TSE já fechou."><span class="cc">2105 caracteres</span>A Câmara eleita tem 292 deputados de direita e centro-direita, 137 de esquerda e centro-esquerda e 84 de centro, pela classificação de campo da casa. Em 2022 o bloco da direita tinha 272: andou +20. A esquerda e a centro-esquerda andaram −13. Só a direita, sem a centro-direita, ganhou 29 cadeiras e chegou a 173.
 
 O número tem dois marcos. A maioria absoluta é de 257 deputados, e o bloco passa dela com folga. Os três quintos de uma emenda constitucional são 308, e o bloco fica abaixo. O PL terá 121 deputados, a maior bancada; o PT, 70.
 

diff --git a/scripts/apuracao_2026/thread_posts_a.py b/scripts/apuracao_2026/thread_posts_a.py
@@ -118,13 +118,13 @@ POSTS_A: list[dict] = [
     {
         "tag": "A Câmara",
         "tom": "flavio",
-        "titulo": "A direita ganhou {cam_delta_direita} cadeiras. O bloco ainda não chega a três quintos.",
+        "titulo": "A direita ganhou {cam_ganho_direita} cadeiras. O bloco ainda não chega a três quintos.",
         "metrica": "{cam_bloco_d}",
         "metrica_rot": "de {cam_vagas} deputados são de direita ou centro-direita",
         "fig": A.fig_camara,
         "fonte": "TSE e alocação pelo quociente; camara.json e comparacao_2022.json",
         "texto": [
-            "A Câmara eleita tem {cam_bloco_d} deputados de direita e centro-direita, {cam_bloco_e} de esquerda e centro-esquerda e {cam_centro} de centro, pela classificação de campo da casa. Em 2022 o bloco da direita tinha {cam_bloco_d_22}: andou {cam_delta_bloco_d}. A esquerda e a centro-esquerda andaram {cam_delta_bloco_e}. Só a direita, sem a centro-direita, ganhou {cam_delta_direita} cadeiras e chegou a {cam_direita}.",
+            "A Câmara eleita tem {cam_bloco_d} deputados de direita e centro-direita, {cam_bloco_e} de esquerda e centro-esquerda e {cam_centro} de centro, pela classificação de campo da casa. Em 2022 o bloco da direita tinha {cam_bloco_d_22}: andou {cam_delta_bloco_d}. A esquerda e a centro-esquerda andaram {cam_delta_bloco_e}. Só a direita, sem a centro-direita, ganhou {cam_ganho_direita} cadeiras e chegou a {cam_direita}.",
             "O número tem dois marcos. A maioria absoluta é de {cam_maioria} deputados, e o bloco passa dela com folga. Os três quintos de uma emenda constitucional são {cam_tres_quintos}, e o bloco fica abaixo. O PL terá {cam_pl} deputados, a maior bancada; o PT, {cam_pt}.",
             "Depois de PL e PT vêm União com {cam_uniao}, PSD com {cam_psd}, Republicanos e PP com {cam_rep} cada, e MDB com {cam_mdb}. É nesse meio que se decide votação apertada. O centro, com {cam_centro} cadeiras pela classificação da casa, fica menor do que em 2022 e perde o poder de veto que tinha sobre qualquer maioria.",
             "Votos e cadeiras andaram juntos. A direita teve {cam_votos_d} dos votos para a Câmara e ficou com {cam_cadeiras_d} das cadeiras; a esquerda teve {cam_votos_e} dos votos. O deputado mais votado do país foi {cam_top_nome}, com {cam_top_votos} de votos, {cam_top_pct} dos válidos de Minas Gerais.",

diff --git a/scripts/apuracao_2026/thread_valores.py b/scripts/apuracao_2026/thread_valores.py
@@ -308,6 +308,7 @@ def v_camara() -> dict:
         "cam_cd": num(pc["centro-direita"]),
         "cam_esq": num(pc["esquerda"]),
         "cam_delta_direita": sinal(cp["delta_campo"]["direita"], 0),
+        "cam_ganho_direita": num(cp["delta_campo"]["direita"]),
         "cam_delta_bloco_d": sinal(cp["delta_bloco"]["direita + centro-direita"], 0),
         "cam_delta_bloco_e": sinal(cp["delta_bloco"]["esquerda + centro-esquerda"], 0),
         "cam_bloco_d_22": num(cp["por_bloco_2022"]["direita + centro-direita"]),
